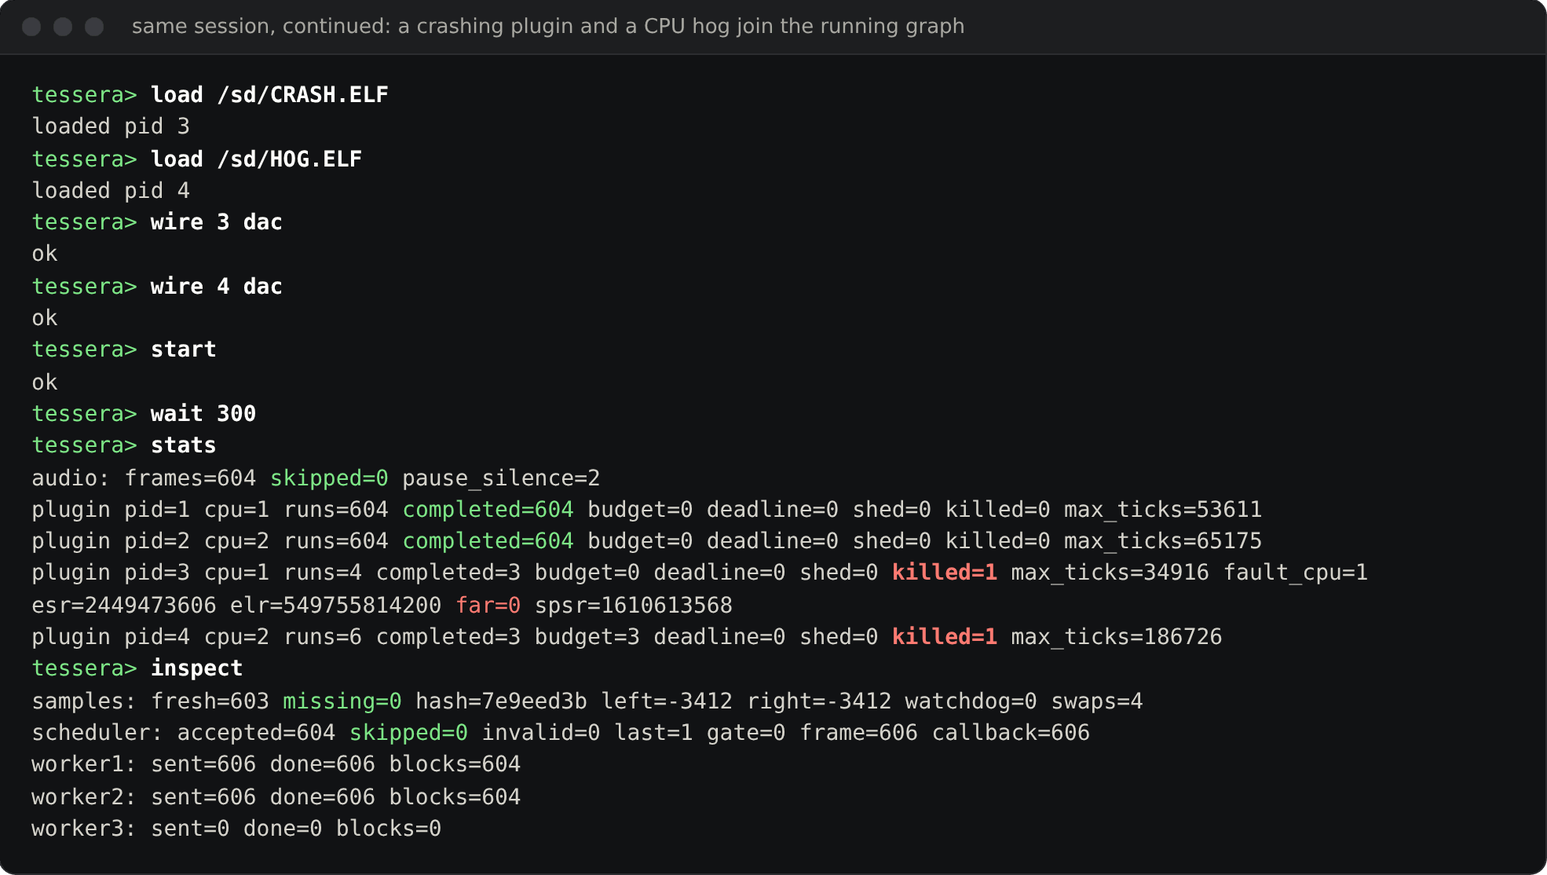
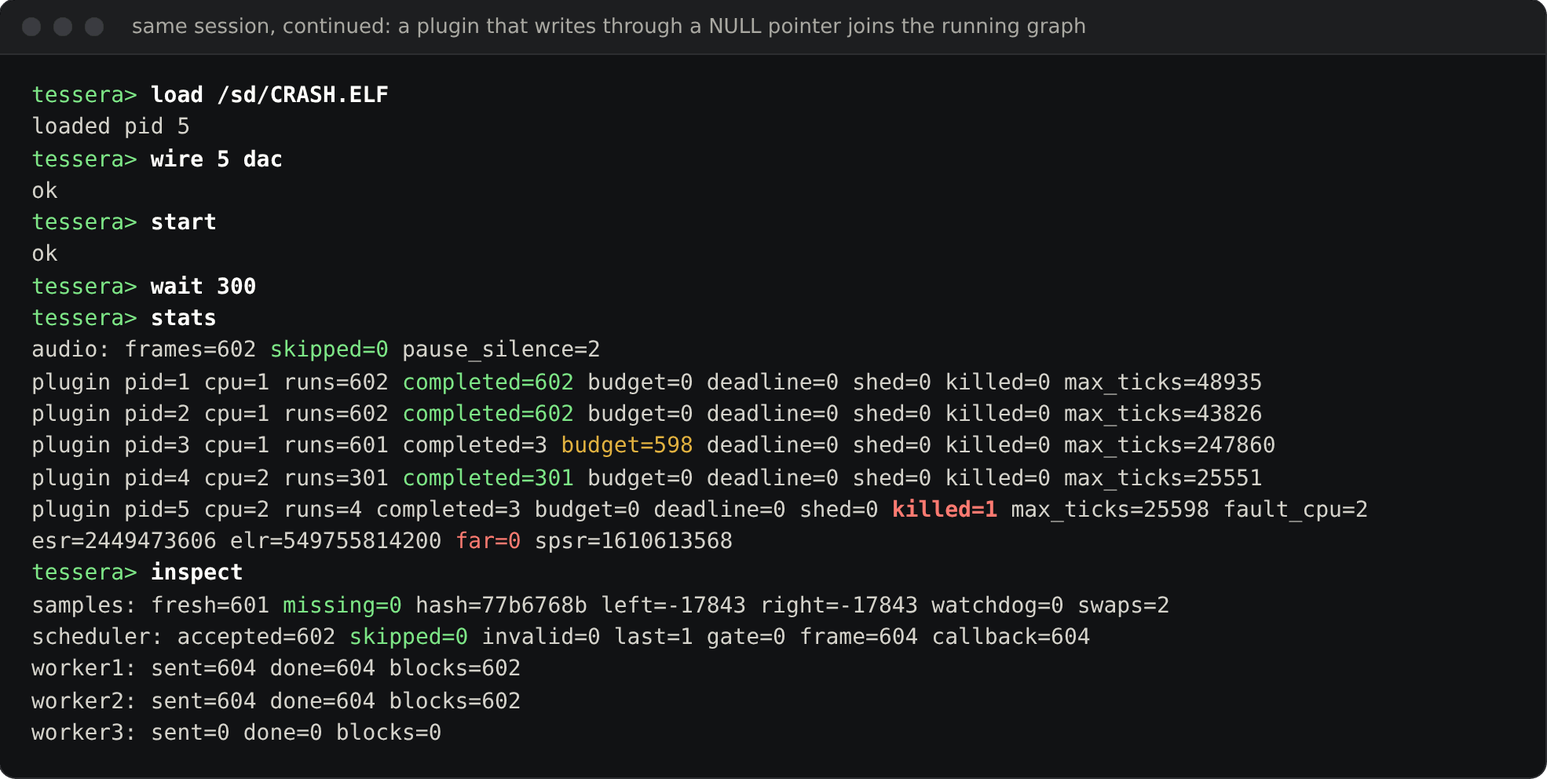
Lead the README with temporal contracts
The README opened on plugin isolation, but the distinctive part is the
temporal runtime. It now leads with contracts (period, budget, deadline,
criticality), admission, enforcement and overrun policies. Isolation is
presented as what makes those contracts enforceable.

- New "Temporal contracts, live" screenshot from one QEMU session: a
  contract refused at admission with required and available ticks, a
  criticality inversion refused, an overrunning SOFT effect bypassed on
  every block without being killed, and a half-rate BEST_EFFORT job.
- The fault-containment screenshot continues that session. A NULL-write
  plugin is killed while the bypassed effect keeps its policy: a fault
  always kills, a budget overrun gets the declared policy.
- "What Tessera is" now starts with the contract-scheduled engine,
  including an overrun-policy table and the model's stated limits. Isolation
  is condensed to the parts that make enforcement possible.
- Status table gains "Are the timing guarantees real?" (the mechanism yes,
  hardware numbers not yet). The architecture diagram, verification table,
  road to hardware and docs list follow the same emphasis.
- The README says that emulated timing varies between runs.

Claude-Session: https://claude.ai/code/session_01ETBaRfWTZ7Sh2MmH69zbMD

Changed region(s): [[0.0, 0.0938, 0.836, 0.9688], [0.0929, 0.0, 0.7122, 0.0625]]

diff --git a/README.md b/README.md
@@ -1,19 +1,30 @@
 # Tessera
 
-**A bare-metal AArch64 audio runtime that treats every DSP plugin as untrusted code.**
+**A bare-metal AArch64 audio runtime that schedules every DSP plugin by contract.**
 
-Tessera is an experimental kernel plus plugin platform for a Cortex-A audio device
+Tessera is an experimental kernel and plugin platform for a Cortex-A audio device
 (target: a Raspberry Pi Compute Module 4 driving a PCM5102 DAC, i.e. a programmable
-stompbox or desktop instrument). Its one core idea is that **loading a plugin should
-not mean trusting it with the whole instrument**. A plugin is an ordinary AArch64 ELF.
-It runs at EL0 in its own ARMv8 address space, under a CPU-time budget enforced by the
-generic timer, and it can't make syscalls from its DSP path. If a plugin dereferences a
-wild pointer, issues an illegal `SVC`, or spins forever, only that plugin is killed.
-The audio engine and the other plugins keep running.
+stompbox or desktop instrument). Every plugin runs under a **temporal contract**: how
+often it runs (its period, in whole blocks), how much CPU it may use (its budget), when
+it must be finished (its deadline within the frame), and how much it matters (HARD,
+SOFT or BEST_EFFORT).
+
+Before a graph runs, the kernel *admits* it. It builds the worst-case frame in exactly
+the order the workers will execute it, including dependencies between plugins and
+declared kernel overhead. It refuses any contract that can't meet its deadline and says
+by how much. While the graph runs, the generic timer enforces every budget. A plugin
+that overruns gets the policy it declared: mute, bypass to the dry signal, kill, kill
+after N strikes, or run less often. CPU0 owns the audio cadence and never waits for a
+late worker. Graph and contract changes take effect only at a drained frame boundary.
+
+The contracts can be enforced because a plugin can't cheat them. Each plugin is an
+ordinary AArch64 ELF running at EL0 in its own address space. It can't mask the timer,
+touch the scheduler or make syscalls from its DSP path, and if it faults, only that
+plugin is killed.
 
 There is no Linux, libc, or dynamic linker underneath. The kernel is roughly 20,000
 lines of freestanding C and assembly: the MMU and process code, an ELF loader, an audio
-graph, a real-time scheduler, a FAT filesystem, and a serial shell. It ships with a
+graph, the temporal scheduler, a FAT filesystem, and a serial shell. It ships with a
 plugin SDK (C and Rust) and a library of allocation-free DSP blocks for plugin authors.
 
 ---
@@ -25,40 +36,55 @@ plugin SDK (C and Rust) and a library of allocation-free DSP blocks for plugin a
 | Does it run? | **Yes, under QEMU `virt`** (4× Cortex-A72, MMU on, real exception vectors, real EL0 plugins). |
 | Does it run on a Raspberry Pi / CM4? | **Not yet.** Nothing has been validated on real BCM2711 silicon. That work is tracked in [#105](https://github.com/KrasForge/Tessera/issues/105)–[#108](https://github.com/KrasForge/Tessera/issues/108). |
 | Can I hear it? | **Not from QEMU, and not from a board yet.** QEMU doesn't emulate the BCM2711 I2S block. The emulated workstation renders PCM into memory, and tests check it by sample value and hash. What you *can* hear is the reference plugins' own DSP, rendered on a desktop by the offline host: see [Hear it](#hear-it). |
-| Is the isolation real? | **Yes.** Each plugin gets its own translation tables, runs at EL0, and is preempted by the timer. Faults are handled by the kernel's real exception path, and QEMU tests exercise every fault class. |
+| Are the timing guarantees real? | **The mechanism is; the numbers aren't yet.** Admission, EDF dispatch and timer enforcement run for real on QEMU's emulated Cortex-A72s. Emulated time depends on the host, though, so no deadline, latency or jitter figure here is hardware evidence. |
+| Is the isolation real? | **Yes.** Each plugin gets its own translation tables and runs at EL0. Faults go through the kernel's real exception path, and QEMU tests exercise every fault class. |
 | Is it a product? | **No.** It's a working, heavily tested architecture in emulation. It isn't a finished pedal, and it makes no claims about measured hardware latency. |
 
 ---
 
 ## See it
 
-### A live graph from the serial shell
+### Temporal contracts, live
 
-![A Tessera serial-console session under QEMU: two plugins are loaded from the FAT volume, wired synth to filter to DAC, given temporal contracts, pinned to worker cores and started. stats then shows both completing 300 of 300 blocks with no skipped frames.](docs/media/shell-session.png)
+![A Tessera serial-console session under QEMU. Four plugins are loaded and wired synth to filter to an overrunning effect to the DAC, plus a half-rate side job. A 16 ms filter contract is refused with required and available ticks, a soft-before-hard contract is refused, and the graph then runs: synth and filter complete 300 of 300 blocks, the overrunning effect is bypassed 296 times without being killed, and the half-rate job runs 150 times.](docs/media/temporal-contracts.png)
 
-The integrated 4-core image under QEMU, driven over its PL011 serial console. Two
-plugins are loaded from the FAT volume into their own EL0 address spaces, wired
-synth → low-pass → DAC, given temporal contracts, pinned to worker cores, and started.
-After 300 frames both have completed every block and the DAC has missed none.
-(`SYNTH.ELF` in this image is the 440 Hz sine test plugin.)
+The integrated 4-core image under QEMU, driven over its serial console. Four plugins are
+loaded into their own EL0 address spaces and wired synth → filter → `HOG.ELF` → DAC, with
+a side branch from the filter into `SOURCE.ELF`. Then their contracts are declared:
+
+- **Admission says no, with numbers.** The synth has a 4 ms budget, and the filter asks
+  for 16 ms with an 18 ms deadline. The filter consumes the synth's output in the same
+  frame, so the two run back to back. That needs 20.26 ms including declared kernel
+  overhead, against 18 ms available (the counter runs at 62.5 MHz, so 1,266,250 versus
+  1,125,000 ticks). The contract is refused and nothing changes. At 3 ms it fits.
+- **Criticality has to flow downstream.** Demoting the synth to SOFT is refused, because
+  a SOFT producer can't feed a HARD consumer in the same frame.
+- **An overrunning effect is bypassed, not killed.** `HOG.ELF` renders three blocks and
+  then spins forever. Its contract is SOFT with a 2 ms budget and `policy=bypass`. The
+  generic timer preempts it on every block (`budget=296`), and its dry input goes to the
+  DAC instead. The synth and filter complete 300 of 300 blocks.
+- **Plugins run at different rates.** `SOURCE.ELF`, standing in for optional analysis
+  work, is BEST_EFFORT at half rate (`period=2blocks`). It runs 150 times in 300 frames,
+  on the other DSP core.
 
 ### Fault containment, live
 
-![The same session continued: a crashing plugin and a CPU-hog plugin are loaded and wired into the running graph. stats shows both killed (killed=1), the crash with its fault record, while the synth and filter keep completing every block: 604 of 604, with zero skipped frames.](docs/media/fault-containment.png)
+![The same session continued: a plugin that writes through a NULL pointer is wired into the running graph and killed with its fault record, while the other plugins keep running and the effect is still bypassed rather than killed.](docs/media/fault-containment.png)
 
-The same session, still running. `CRASH.ELF` writes through a NULL pointer on its
-fourth block, and `HOG.ELF` renders three blocks and then spins forever inside
-`process_block`. The kernel records the crash (`esr=2449473606` is 0x92000046, a data
-abort from EL0 on a write; `far=0` is the NULL address) and kills it. The generic timer preempts the
-hog on three consecutive blocks (`budget=3`), and then the hog is killed too. Synth and
-filter never notice: 604 of 604 blocks completed, zero skipped frames, and nothing
-missing at the DAC.
+The same session, still running. `CRASH.ELF` writes through a NULL pointer on its fourth
+block. The kernel records the fault (`esr=2449473606` is 0x92000046, a data abort from
+EL0 on a write; `far=0` is the NULL address) and kills it. A fault always kills, whatever
+the overrun policy, while a budget overrun gets the declared policy: the hog is still
+being bypassed (`budget=598`, `killed=0`). Synth and filter have completed 602 of 602
+blocks, with nothing missing at the DAC.
 
 Both screenshots are one unedited session
 ([raw log](docs/media/workstation-session.log)), captured with the 12 kHz / 240-sample
-(20 ms) frame profile that the console acceptance test uses, so host-vCPU
-descheduling isn't mistaken for a deadline miss (see [Verification](#verification)).
-To reproduce it, type the same commands into:
+(20 ms) frame profile that the console acceptance test uses. Emulated time depends on
+the host. On some runs a descheduled vCPU shows up as a few skipped frames or shed jobs,
+which is QEMU rather than a Cortex-A72 measurement, and is why nothing here is a
+hardware timing claim (see [Verification](#verification)). To reproduce the session,
+type the same commands into:
 
 ```sh
 make run-arm-workstation CROSS_COMPILE=aarch64-linux-gnu- \
@@ -89,8 +115,8 @@ https://github.com/user-attachments/assets/9f67efe6-2a36-4450-8c1e-e174edcf0ec7
 
 https://github.com/user-attachments/assets/808c9d8f-ba5a-4a8e-b516-f6bee7280504
 
-**Synth → filter.** Two plugins in series, the same `wire 1 2; wire 2 dac` graph as
-the shell session: an FM pad into the resonant SVF low-pass, with its cutoff swept
+**Synth → filter.** Two plugins in series, like the synth → filter chain in the shell
+session: an FM pad into the resonant SVF low-pass, with its cutoff swept
 180 Hz → 6 kHz → 180 Hz.
 [MP3](docs/media/demo-chain.mp3?raw=true)
 
@@ -106,79 +132,85 @@ was uploaded through its web editor, so the players above are uploads of the scr
 
 ## What Tessera is
 
-### 1. An isolation-first plugin runtime
+### 1. A contract-scheduled, multicore audio engine
 
-Plugin isolation is part of the audio architecture itself, not a wrapper around one
-trusted process:
+CPU0 owns the audio cadence and the graph. Plugins run as jobs on worker cores CPU1–3,
+each under its contract:
 
-- **Memory isolation.** Each plugin gets a separate translation root. Kernel memory,
-  MMIO, and other plugins are unmapped, and code and data are mapped W^X. The host maps
-  audio buffers, the parameter queue, and the event queue in explicitly.
-- **Time isolation.** `plugin_process_block` runs under a generic-timer budget. An
-  overrunning block is interrupted, and its partial output is erased. Three offences in
-  a row kill the plugin.
-- **Syscall isolation.** An `SVC` from the plugin body is fatal. All kernel transitions
-  go through a host-controlled trampoline, and the DSP path makes no syscalls per block.
-- **Validated loading.** ELF images are bounds-checked and ABI-version-checked before
-  anything is mapped. Images with undefined imports are rejected. A failed load or
-  admission rolls back completely.
-- **Safe teardown.** A killed process can't be re-entered, and its resources are freed
-  only after the worker cores have drained. The resilience test checks for zero frame
-  leaks over repeated fault cycles.
+- **The contract.** Period in whole blocks (a plugin can run every 1, 2, 3… frames),
+  a deadline within the frame, a CPU budget, a criticality class, and an overrun policy.
+  Times are generic-counter ticks, so they don't depend on the CPU clock.
+- **Dispatch order.** HARD before SOFT before BEST_EFFORT, earliest deadline first within
+  a class, and producers before their consumers in the same frame. Same-frame consumers
+  can't be more critical than their producers, and multirate wiring has to divide evenly.
+  An incompatible graph is rejected rather than quietly reinterpreted.
+- **Admission.** The admission test replays the worst simultaneous-release frame in that
+  dispatch order, adding HARD and SOFT budgets plus declared kernel overhead. It checks
+  every completion against its deadline and the total against the frame. This is a
+  conservative sufficient test, not a maximally permissive schedulability solver.
+  BEST_EFFORT budgets aren't reserved: such a job runs only if its whole budget still
+  fits before its cutoff. A rejected change leaves the running plan as it was.
+- **Enforcement.** The generic timer fires at the earlier of the job's budget and its
+  absolute cutoff. A plugin's output stays private until the job is classified, so an
+  interrupted block never reaches the DAC.
+- **Lateness isn't blamed on the plugin.** A job dispatched too late to fit is shed and
+  logged as a deadline miss, not a budget offence, so scheduler lateness can't get an
+  innocent plugin killed. Missed kicks are counted, never replayed in a catch-up burst.
+- **Live changes.** A contract edit re-admits the whole desired graph. The new plan is
+  handed to the worker through a single-writer mailbox and adopted only at a frame
+  boundary. Audio never waits for the control plane; a contending writer gets `EBUSY`.
+- **Across cores.** A chain stays on one core, where a consumer sees its producer's
+  output in the same block, and an edge between cores adds one block of latency instead
+  of a cross-core wait. The engine also has feedback edges, plugin delay compensation,
+  and per-plugin service-time counters published without locks.
+
+| Overrun policy | What happens to that block, and after |
+| --- | --- |
+| `mute` | The block is replaced with silence. |
+| `bypass` | The block is replaced with the plugin's dry input. |
+| `kill` | Silence, and the plugin is terminated on its first offence. |
+| `strikes` | Silence, and the plugin is terminated after N consecutive offences. |
+| `degrade` | Silence, then the plugin skips its next N releases. Not allowed for HARD. |
+
+The model has limits, and [`docs/temporal-contracts.md`](docs/temporal-contracts.md)
+spells them out. Every job is released at a frame boundary and must finish within its
+frame, so this isn't a general sporadic-task scheduler. The overhead allowances also
+need conservative measured values from real hardware before admission means a
+guarantee there. Placement and the plan handoff are in
+[`docs/graph-scheduling.md`](docs/graph-scheduling.md).
+
+### 2. Isolation: what makes the contracts enforceable
+
+A budget only means something if the plugin can't escape it, so every plugin is an
+untrusted process:
+
+- **Memory.** Each plugin has its own translation root. Kernel memory, MMIO and other
+  plugins are unmapped, code and data are W^X, and the host maps audio buffers and the
+  parameter and event queues in explicitly.
+- **Syscalls.** An `SVC` from the plugin body is fatal. Kernel transitions go through a
+  host-controlled trampoline, and the DSP path makes no syscalls per block.
+- **Loading and teardown.** ELF images are bounds-checked and ABI-checked before
+  anything is mapped, and a failed load rolls back completely. A killed process can't be
+  re-entered, and its memory is freed only after the worker cores have drained.
 
 The plugin ABI is frozen at major version 1 (five C exports). It has grown by
 backward-compatible minor versions up to **v1.3**, which added note/CC events, a
 transport snapshot, MPE, and sample-accurate event offsets. See
 [`docs/plugin-abi.md`](docs/plugin-abi.md) and [`CHANGELOG.md`](CHANGELOG.md).
 
-### 2. A real-time, multicore audio engine
-
-CPU0 owns the audio cadence and the graph. Plugins run as isolated jobs on worker
-cores. Before anything executes, a temporal runtime admits the graph against each
-plugin's contract:
-
-- period (in whole blocks), within-frame deadline, CPU budget, and criticality class
-  (HARD / SOFT / BEST_EFFORT);
-- precedence-constrained EDF within each class, dependency-aware placement on CPU1-3,
-  and optional core pinning;
-- per-plugin overrun policies: mute, bypass, kill, kill after N strikes, or degrade;
-- graph changes published only at drained frame boundaries, with guarded reclamation of
-  the old graph;
-- feedback edges, plugin delay compensation, and seqlock-published per-plugin
-  service-time counters.
-
-A late worker is skipped and the miss is attributed to it; CPU0 is never made to wait.
-See [`docs/temporal-contracts.md`](docs/temporal-contracts.md) for the exact model and
-its limits.
-
 ### 3. A serial workstation
 
-The integrated application is a 4-core QEMU image. CPU0 runs audio, CPU1-2 run DSP,
-and CPU3 runs a UART shell. From that shell you can build and manage a live graph
-without compiling a control program:
+The integrated application is a 4-core QEMU image: CPU0 runs the audio cadence, CPU1–2
+run DSP, and CPU3 runs a UART shell. From that shell you load plugins, wire them,
+declare and change contracts, pin plugins to cores, set parameters, and start or pause
+the graph, all without compiling a control program (see the screenshots above).
+`/sd` is a RAM-backed FAT volume, preloaded at boot with the bundled plugin ELFs. In this
+image `SYNTH.ELF` is a 440 Hz sine test plugin.
 
-```text
-load /sd/SYNTH.ELF
-load /sd/GAIN.ELF
-wire 1 2
-wire 2 dac
-contract 1 hard 400us deadline=1000us policy=mute
-contract 2 soft 400us deadline=1200us policy=bypass
-pin 1 2
-pin 2 1
-set-param 2 0 0.5
-start
-stats
-ls
-patch save /sd/LIVE.TSP
-```
-
-`/sd` is a RAM-backed FAT volume that is preloaded at boot with the bundled plugin
-ELFs. In this image, `SYNTH.ELF` is a 440 Hz sine test plugin. `patch load` rebuilds
-plugins, parameters, contracts, affinity, and wiring. The acceptance test saves a
-session, shuts QEMU down, boots a fresh emulator with only the FAT image restored,
-reloads the patch, and requires bit-identical PCM output. See
-[`docs/shell.md`](docs/shell.md) and
+`patch save` and `patch load` persist plugins, parameters, contracts, core affinity and
+wiring. The acceptance test saves a session, shuts QEMU down, boots a fresh emulator with
+only the FAT image restored, reloads the patch, and requires bit-identical PCM output.
+See [`docs/shell.md`](docs/shell.md) and
 [`docs/m11-m13-workstation.md`](docs/m11-m13-workstation.md).
 
 ### 4. A plugin SDK and DSP library
@@ -213,7 +245,7 @@ honestly where each piece stands.
 
 | Tier | What's in it |
 | --- | --- |
-| **Integrated: runs in the workstation image** (`make run-arm-workstation`) | MMU and processes, exception vectors, ELF loader, SVC gate, sandbox audit, CPU-budget enforcement, temporal admission and multicore workers, audio graph, lock-free parameter queues, plugin manager, FAT/VFS, patches and sessions, shell. |
+| **Integrated: runs in the workstation image** (`make run-arm-workstation`) | Temporal admission, EDF dispatch, budget enforcement and overrun policies, multicore workers, the audio graph, MMU and processes, exception vectors, ELF loader, SVC gate, sandbox audit, lock-free parameter queues, plugin manager, FAT/VFS, patches and sessions, shell. |
 | **Proven in dedicated QEMU fixtures** (real kernel code on QEMU `virt`, but not yet linked into the workstation) | Per-plugin memory quota at load time, safe-mode dry bypass, crossfaded patch switching, plugin hot-reload, crash black-box, live parameter IPC, MIDI and CV/Gate input paths, audio-input graph nodes and input→effect→output round trip, callback latency and jitter measurement. The BCM2711 I2S and DMA drivers are exercised only as an API smoke test against scratch RAM, because QEMU has no I2S block. |
 | **Host-tested building blocks** (portable C, unit-tested with ASan/UBSan, not wired into any running image) | Master transport, tempo sync and tap tempo, arpeggiator, looper, scene morphing, mixer, limiter, profiler, patch banks with Program Change, control-surface mapping with MIDI learn, an OSC remote-editor codec, multichannel routing, linear and polyphase-FIR sample-rate conversion, syscall/I/O-rate quota accounting (the kernel hook is a no-op by default), and OLED UI layout (no display driver). Also: **USB audio**, which is UAC1 descriptor parsing and isochronous framing only, with no USB host controller driver. **Plugin packages**, which is a verifier for HMAC-SHA256 (symmetric) and key revocation, not in the load path. **Secure/measured boot**, which is image verification and a PCR-style hash chain, not in the boot path. |
 | **Pi image** (`make arm` → `kernel8.img`) | Boots, prints the UART banner, enables the MMU, runs the M1-M4 self-tests (processes, faults, scheduler, audio, and timer), and blinks the CM4 LED. It doesn't run the plugin host or the workstation yet, and it hasn't been booted on real hardware. |
@@ -228,14 +260,16 @@ the BCM2711, is the remaining path from "architecture" to "instrument".
 ```text
                         trusted kernel (EL1)
 
-         audio cadence · graph ownership · admission · fault handling
+     audio cadence · admission · plan handoff at frame boundaries
                                CPU0
                                 |
-                       frame-boundary kick
+                  frame-boundary kick (never waits)
                      /          |          \
                  worker       worker      control
-                  CPU1         CPU2      CPU3 (shell, file I/O,
-                   |            |         ELF loading, printing)
+                  CPU1         CPU2      CPU3 (shell, contracts,
+                   |            |         ELF loading, file I/O)
+          jobs in criticality-first EDF order,
+          each under its own budget timer
                EL0 PID A    EL0 PID B
               +---------+  +---------+
               | private |  | private |
@@ -247,7 +281,8 @@ the BCM2711, is the remaining path from "architecture" to "instrument".
                       DAC sink
 ```
 
-The kernel owns lifecycle, graph publication, timer enforcement, and fault handling.
+The kernel owns admission, lifecycle, graph publication, timer enforcement, and fault
+handling.
 Plugin code never becomes privileged. ELF parsing, filesystem access, and
 initialization run on the control core, never in the audio IRQ.
 
@@ -294,8 +329,8 @@ under ASan and UBSan or a QEMU `virt` fixture. CI runs them. The main gates:
 
 | Gate | What it proves |
 | --- | --- |
+| `test-arm-temporal-all` | admission, all five overrun policies, independent periods, EDF ordering, absolute-deadline aborts, and live contract updates through the real syscall, on real EL0 plugins; 1,500 generated contract sets and 10,000 concurrent plan handoffs on the host; a two-core fixture at 48 kHz / 64 samples |
 | `test-arm-resilience-qemu` | null-access, kernel-write, illegal-SVC, and CPU-hog plugins are killed while a good plugin keeps producing, with no leaks over 10 cycles |
-| `test-arm-temporal-all` | contracts, admission, lifecycle races, timer enforcement, and real-EL0 execution |
 | `test-arm-m11` | three real EL0 jobs spread across CPU1-3 with zero missed frames; fault containment on every worker core |
 | `test-arm-m13` | shell safety, a console-built graph producing real plugin audio, and patch save/reload with an identical DAC hash |
 | `test-arm-session-console` | a full workstation session, persistence, and a true two-process cold boot |
@@ -311,8 +346,9 @@ numbers have to come from the board ([`docs/latency.md`](docs/latency.md)).
 
 ## Road to hardware
 
-The thesis (MMU-isolated plugins on a Cortex-A audio device) still needs to be shown on
-real silicon:
+The thesis (contract-scheduled, MMU-isolated plugins on a Cortex-A audio device) still
+needs to be shown on real silicon. Admission on the board also needs measured overhead
+allowances in place of the emulator's:
 
 - [#105](https://github.com/KrasForge/Tessera/issues/105): Pi 4 / CM4 boot, interrupts,
   serial, mailbox, and EMMC2/SD bring-up;
@@ -349,10 +385,10 @@ docs/         ABI, shell, temporal model, reliability, hardware, and verificatio
 
 ## Documentation
 
+- **Temporal contracts and scheduling:** [`docs/temporal-contracts.md`](docs/temporal-contracts.md), [`docs/graph-scheduling.md`](docs/graph-scheduling.md)
 - **Write a plugin:** [`docs/getting-started.md`](docs/getting-started.md), [`sdk/README.md`](sdk/README.md)
 - **Plugin contract:** [`docs/plugin-abi.md`](docs/plugin-abi.md)
 - **Serial workstation:** [`docs/shell.md`](docs/shell.md), [`docs/m11-m13-workstation.md`](docs/m11-m13-workstation.md)
-- **Temporal contracts:** [`docs/temporal-contracts.md`](docs/temporal-contracts.md)
 - **Fault containment demo:** [`docs/demo.md`](docs/demo.md)
 - **Reliability mechanisms:** [`docs/reliability.md`](docs/reliability.md)
 - **Signal I/O, transport, control:** [`docs/signal-io.md`](docs/signal-io.md), [`docs/transport.md`](docs/transport.md), [`docs/control-surface.md`](docs/control-surface.md)
